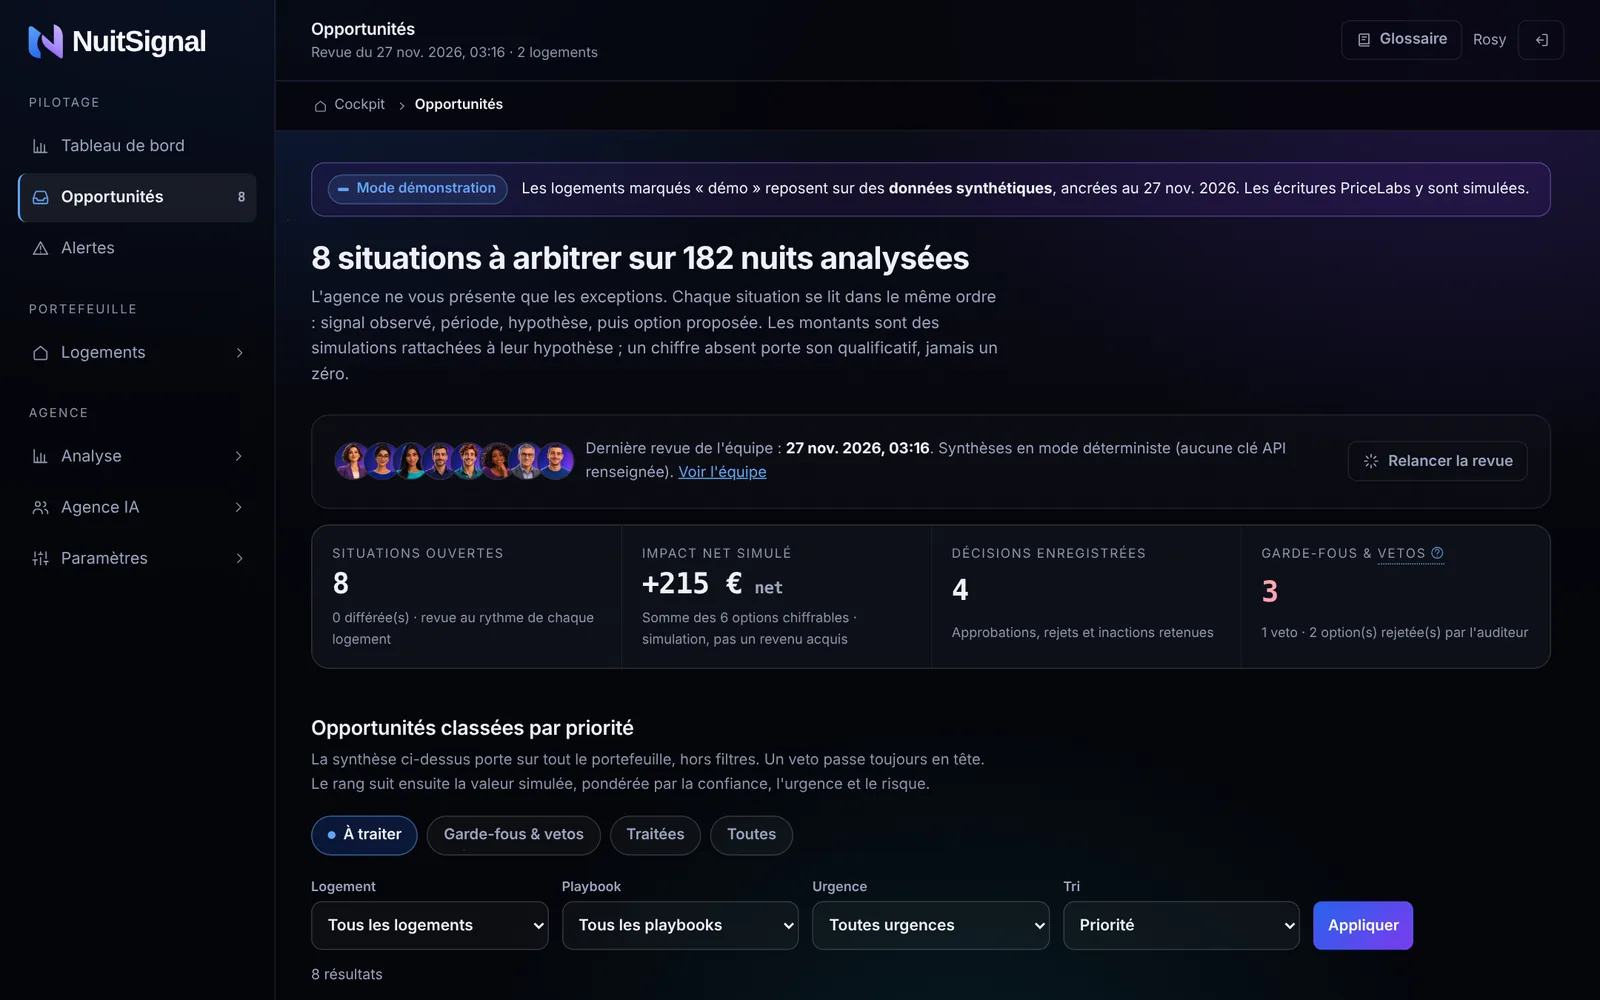
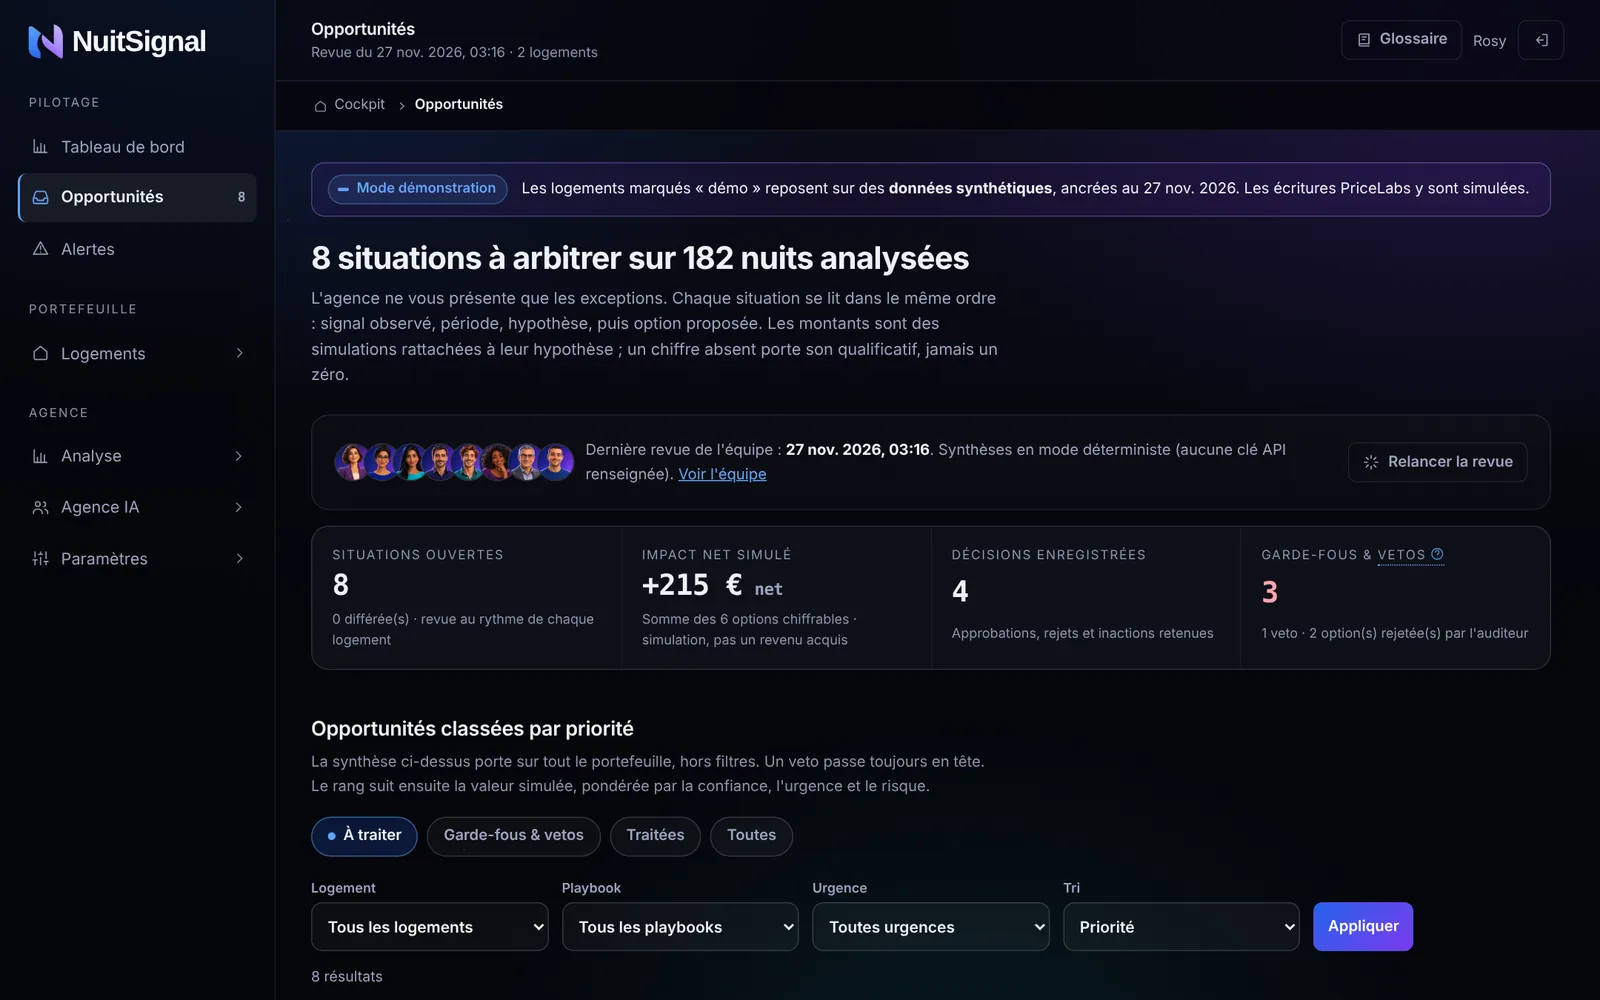
chore(landing): captures du mode poche à jour (après #112)
Claude-Session: https://claude.ai/code/session_0168isRLcXSbJ1WhwRcArRNo

diff --git a/landing/index.html b/landing/index.html
@@ -338,9 +338,9 @@
       <div class="phone">
         <div class="phone-notch" aria-hidden="true"></div>
         <div class="screens">
-          <img class="is-on" src="assets/shots/mobile-opportunites.webp" alt="Mode poche : opportunités sur téléphone" width="600" height="1298" loading="lazy">
+          <img class="is-on" src="assets/shots/mobile-opportunites.webp" alt="Mode poche : opportunités en cartes compactes, à arbitrer ou approuver d’un geste" width="600" height="1298" loading="lazy">
           <img src="assets/shots/mobile-dossier.webp" alt="Mode poche : dossier de décision sur téléphone" width="600" height="1298" loading="lazy">
-          <img src="assets/shots/mobile-accueil.webp" alt="Mode poche : accueil, 8 situations à arbitrer sur 2 logements" width="600" height="1298" loading="lazy">
+          <img src="assets/shots/mobile-accueil.webp" alt="Mode poche : accueil, 8 situations à arbitrer et tendance du mois par logement" width="600" height="1298" loading="lazy">
         </div>
       </div>
       <div class="float-tag t1 reveal" aria-hidden="true"><span class="dot-rose"></span>Veto · sous le plancher</div>
